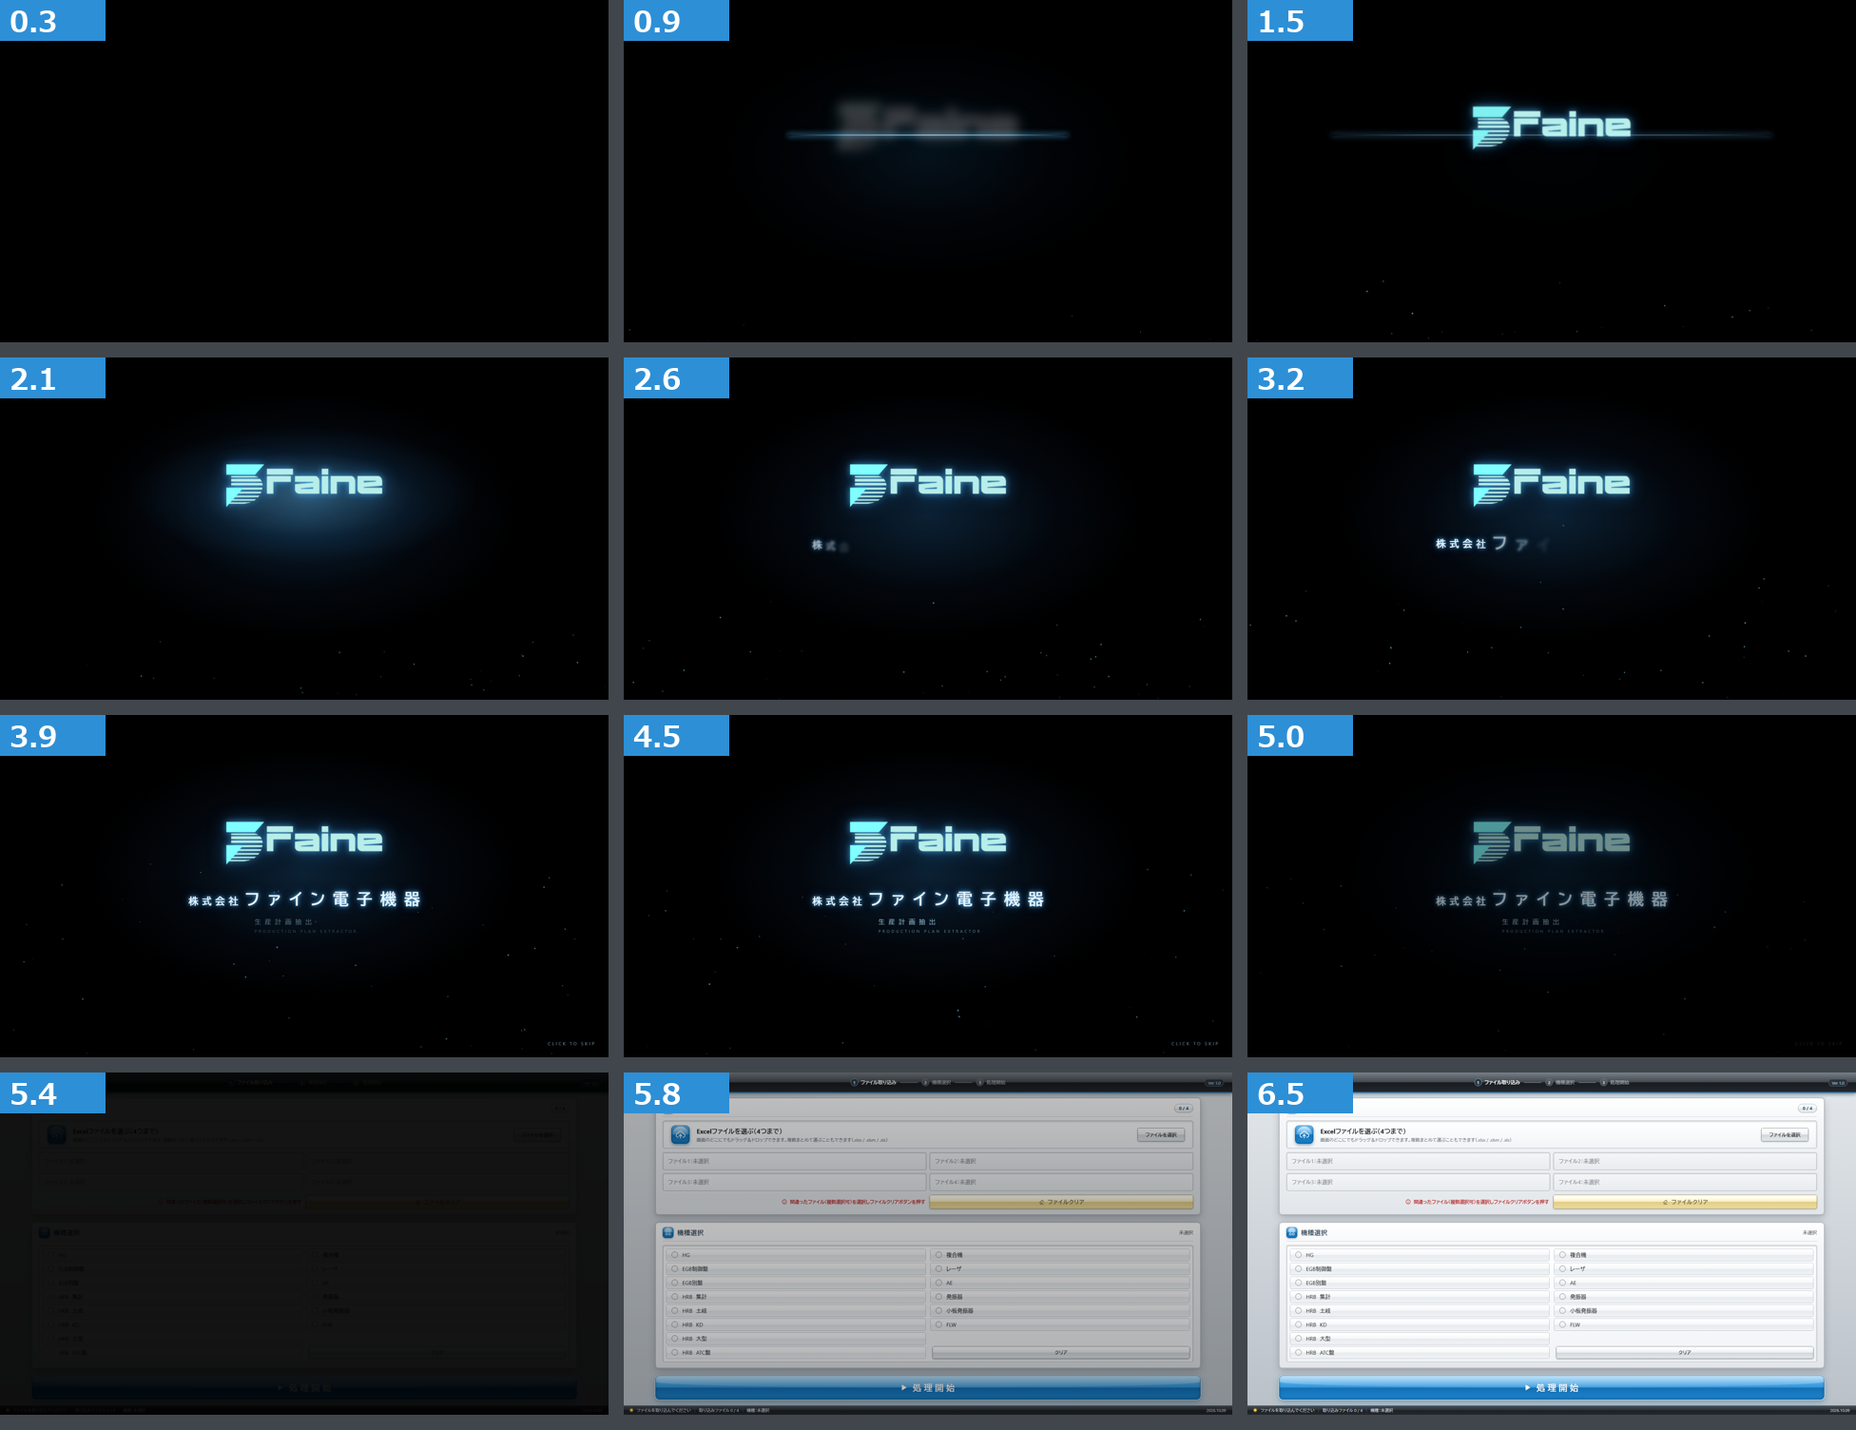
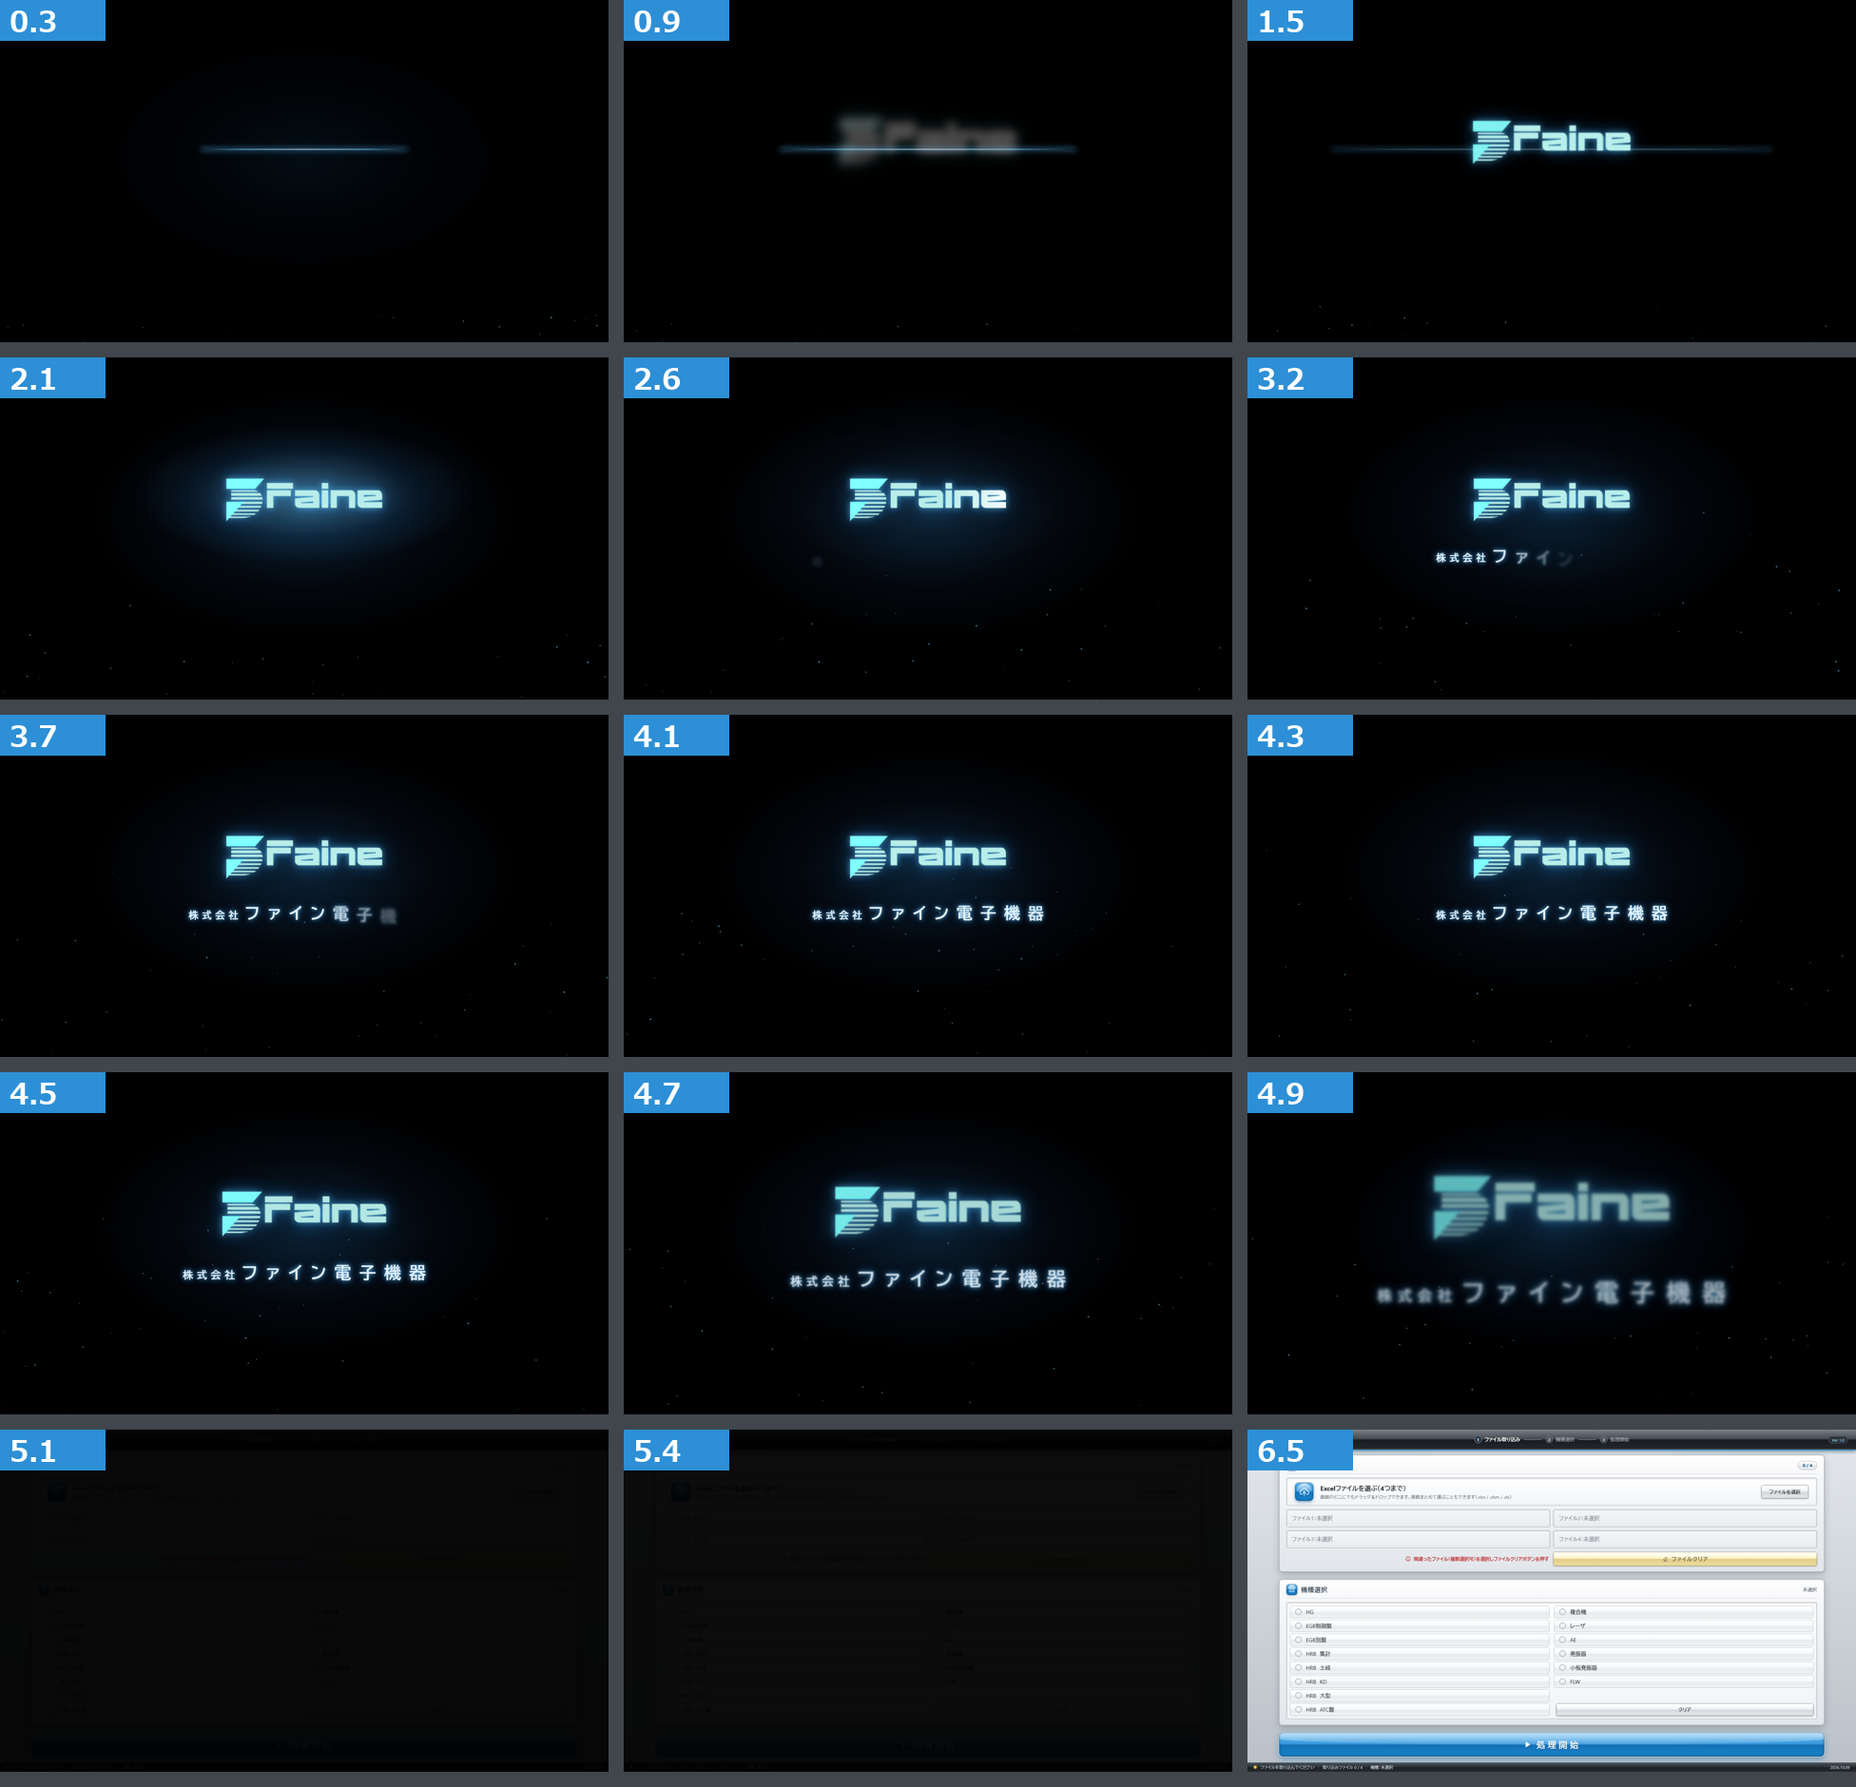
オープニングの終わり方を変更：ロゴと会社名が手前に飛び出しながら消える
- 「生産計画抽出」「CLICK TO SKIP」の表示を削除（クリックでの省略は残す）
- 4.5〜5.3秒でロゴと会社名が拡大・ぼかし・透明になり飛び出す演出を追加
- 4.9〜5.4秒でブラックアウト、6秒でアプリ画面へ

diff --git a/index.html b/index.html
@@ -198,12 +198,12 @@ main{width:1720px;margin:0 auto;padding:18px 0;display:flex;flex-direction:colum
 #result{display:none!important}
 @media (prefers-reduced-motion:reduce){*{transition:none!important}}
 
-/* ===== オープニング（起動時の6秒。最後はブラックアウトしてからアプリへ。クリックで省略）：黒い画面から Faineロゴ＋「ファイン電子機器」が光とともに浮かび上がる ===== */
+/* ===== オープニング（起動時の6秒。最後はロゴと会社名が手前に飛び出しながら消え、ブラックアウトしてからアプリへ。クリックで省略）：黒い画面から Faineロゴ＋「ファイン電子機器」が光とともに浮かび上がる ===== */
 #splash{position:absolute;inset:0;z-index:500;overflow:hidden;cursor:pointer;background:#000;color:#fff;
   animation:spOut .6s ease-in 5.4s forwards}
 #splash .sp-bg{position:absolute;inset:0;background:radial-gradient(900px 520px at 50% 46%,rgba(20,60,95,.55),rgba(5,12,22,.6) 45%,#000 75%);opacity:0;animation:spFade 1.6s ease-out .4s forwards}
 #splash .sp-pt{position:absolute;bottom:-20px;border-radius:50%;background:radial-gradient(circle,#BFE9FF 0%,rgba(90,190,255,.6) 40%,transparent 70%);opacity:0;animation:spRise linear infinite}
-#splash .sp-center{position:absolute;left:0;right:0;top:50%;transform:translateY(-58%);display:flex;flex-direction:column;align-items:center}
+#splash .sp-center{position:absolute;left:0;right:0;top:50%;transform:translateY(-58%);display:flex;flex-direction:column;align-items:center;transform-origin:50% 40%;animation:spFly .8s cubic-bezier(.55,0,.85,.35) 4.5s forwards}
 #splash .sp-beam{position:absolute;left:50%;top:92px;width:0;height:2px;transform:translateX(-50%);border-radius:2px;opacity:0;
   background:linear-gradient(90deg,transparent,#7FD3FF 20%,#FFFFFF 50%,#7FD3FF 80%,transparent);box-shadow:0 0 18px 4px rgba(90,190,255,.55);animation:spBeam 1.4s ease-out .5s forwards}
 #splash .sp-logo{position:relative;width:500px;opacity:0;filter:blur(18px) brightness(2.2);transform:scale(1.18);animation:spLogo 1.3s cubic-bezier(.2,.7,.2,1) .9s forwards}
@@ -215,19 +215,16 @@ main{width:1720px;margin:0 auto;padding:18px 0;display:flex;flex-direction:colum
 #splash .sp-name span.s{font-size:.62em;letter-spacing:.35em}
 #splash .sp-name span.s:nth-child(4){margin-right:.35em}
 #splash .sp-name span{display:inline-block;opacity:0;color:#E8F6FF;transform:translateY(14px);filter:blur(6px);text-shadow:0 0 12px rgba(110,200,255,.9),0 0 28px rgba(40,140,230,.6);animation:spChar .45s ease-out forwards}
-#splash .sp-sub{margin-top:26px;font-size:20px;letter-spacing:.6em;padding-left:.6em;color:#8FB8D0;opacity:0;animation:spFade .7s ease-out 3.9s forwards}
-#splash .sp-sub small{display:block;margin-top:8px;font-size:13px;letter-spacing:.42em;color:#5F8299;text-align:center}
-#splash .sp-skip{position:absolute;right:40px;bottom:34px;font-size:14px;letter-spacing:.35em;color:#7FA9C4;opacity:0;animation:spFade .4s ease-out 4s forwards,spBlink 1.1s ease-in-out 4.4s infinite}
 @keyframes spFade{to{opacity:1}}
+@keyframes spFly{0%{transform:translateY(-58%) scale(1);opacity:1;filter:blur(0)}100%{transform:translateY(-58%) scale(3.2);opacity:0;filter:blur(14px)}}
 @keyframes spBeam{0%{opacity:0;width:0}25%{opacity:1}70%{opacity:1;width:1300px}100%{opacity:0;width:1500px}}
 @keyframes spLogo{to{opacity:1;filter:blur(0) brightness(1);transform:none}}
 @keyframes spGlint{to{background-position:-20% 0}}
 @keyframes spFlash{30%{opacity:1}100%{opacity:0}}
 @keyframes spChar{to{opacity:1;transform:none;filter:blur(0)}}
-@keyframes spBlink{50%{opacity:.25}}
 @keyframes spRise{0%{opacity:0;transform:translateY(0)}15%{opacity:.9}85%{opacity:.6}100%{opacity:0;transform:translateY(-700px)}}
 @keyframes spOut{to{opacity:0;visibility:hidden}}
-#splash .sp-black{position:absolute;inset:0;background:#000;opacity:0;pointer-events:none;animation:spFade .8s ease-in 4.6s forwards}
+#splash .sp-black{position:absolute;inset:0;background:#000;opacity:0;pointer-events:none;animation:spFade .5s ease-in 4.9s forwards}
 #splash.skip{animation:spOut .3s ease-in forwards}
 @media (prefers-reduced-motion:reduce){#splash{animation:spOut .3s ease-in 2s forwards}#splash *{animation-duration:.01s!important;animation-delay:0s!important;animation-iteration-count:1!important}}
 </style>
@@ -316,9 +313,7 @@ main{width:1720px;margin:0 auto;padding:18px 0;display:flex;flex-direction:colum
       <div class="sp-beam"></div>
[1 lines of base64/hex data omitted]
       <div class="sp-name" aria-label="株式会社ファイン電子機器"><span class="s" style="animation-delay:2.70s">株</span><span class="s" style="animation-delay:2.80s">式</span><span class="s" style="animation-delay:2.90s">会</span><span class="s" style="animation-delay:3.00s">社</span><span style="animation-delay:3.10s">フ</span><span style="animation-delay:3.20s">ァ</span><span style="animation-delay:3.30s">イ</span><span style="animation-delay:3.40s">ン</span><span style="animation-delay:3.50s">電</span><span style="animation-delay:3.60s">子</span><span style="animation-delay:3.70s">機</span><span style="animation-delay:3.80s">器</span></div>
-      <div class="sp-sub">生産計画抽出<small>PRODUCTION PLAN EXTRACTOR</small></div>
     </div>
-    <div class="sp-skip">CLICK TO SKIP</div>
     <div class="sp-black"></div>
   </div>
 </div>

diff --git a/アマダ生産計画抽出.html b/アマダ生産計画抽出.html
@@ -199,12 +199,12 @@ main{width:1720px;margin:0 auto;padding:18px 0;display:flex;flex-direction:colum
 #result{display:none!important}
 @media (prefers-reduced-motion:reduce){*{transition:none!important}}
 
-/* ===== オープニング（起動時の6秒。最後はブラックアウトしてからアプリへ。クリックで省略）：黒い画面から Faineロゴ＋「ファイン電子機器」が光とともに浮かび上がる ===== */
+/* ===== オープニング（起動時の6秒。最後はロゴと会社名が手前に飛び出しながら消え、ブラックアウトしてからアプリへ。クリックで省略）：黒い画面から Faineロゴ＋「ファイン電子機器」が光とともに浮かび上がる ===== */
 #splash{position:absolute;inset:0;z-index:500;overflow:hidden;cursor:pointer;background:#000;color:#fff;
   animation:spOut .6s ease-in 5.4s forwards}
 #splash .sp-bg{position:absolute;inset:0;background:radial-gradient(900px 520px at 50% 46%,rgba(20,60,95,.55),rgba(5,12,22,.6) 45%,#000 75%);opacity:0;animation:spFade 1.6s ease-out .4s forwards}
 #splash .sp-pt{position:absolute;bottom:-20px;border-radius:50%;background:radial-gradient(circle,#BFE9FF 0%,rgba(90,190,255,.6) 40%,transparent 70%);opacity:0;animation:spRise linear infinite}
-#splash .sp-center{position:absolute;left:0;right:0;top:50%;transform:translateY(-58%);display:flex;flex-direction:column;align-items:center}
+#splash .sp-center{position:absolute;left:0;right:0;top:50%;transform:translateY(-58%);display:flex;flex-direction:column;align-items:center;transform-origin:50% 40%;animation:spFly .8s cubic-bezier(.55,0,.85,.35) 4.5s forwards}
 #splash .sp-beam{position:absolute;left:50%;top:92px;width:0;height:2px;transform:translateX(-50%);border-radius:2px;opacity:0;
   background:linear-gradient(90deg,transparent,#7FD3FF 20%,#FFFFFF 50%,#7FD3FF 80%,transparent);box-shadow:0 0 18px 4px rgba(90,190,255,.55);animation:spBeam 1.4s ease-out .5s forwards}
 #splash .sp-logo{position:relative;width:500px;opacity:0;filter:blur(18px) brightness(2.2);transform:scale(1.18);animation:spLogo 1.3s cubic-bezier(.2,.7,.2,1) .9s forwards}
@@ -216,19 +216,16 @@ main{width:1720px;margin:0 auto;padding:18px 0;display:flex;flex-direction:colum
 #splash .sp-name span.s{font-size:.62em;letter-spacing:.35em}
 #splash .sp-name span.s:nth-child(4){margin-right:.35em}
 #splash .sp-name span{display:inline-block;opacity:0;color:#E8F6FF;transform:translateY(14px);filter:blur(6px);text-shadow:0 0 12px rgba(110,200,255,.9),0 0 28px rgba(40,140,230,.6);animation:spChar .45s ease-out forwards}
-#splash .sp-sub{margin-top:26px;font-size:20px;letter-spacing:.6em;padding-left:.6em;color:#8FB8D0;opacity:0;animation:spFade .7s ease-out 3.9s forwards}
-#splash .sp-sub small{display:block;margin-top:8px;font-size:13px;letter-spacing:.42em;color:#5F8299;text-align:center}
-#splash .sp-skip{position:absolute;right:40px;bottom:34px;font-size:14px;letter-spacing:.35em;color:#7FA9C4;opacity:0;animation:spFade .4s ease-out 4s forwards,spBlink 1.1s ease-in-out 4.4s infinite}
 @keyframes spFade{to{opacity:1}}
+@keyframes spFly{0%{transform:translateY(-58%) scale(1);opacity:1;filter:blur(0)}100%{transform:translateY(-58%) scale(3.2);opacity:0;filter:blur(14px)}}
 @keyframes spBeam{0%{opacity:0;width:0}25%{opacity:1}70%{opacity:1;width:1300px}100%{opacity:0;width:1500px}}
 @keyframes spLogo{to{opacity:1;filter:blur(0) brightness(1);transform:none}}
 @keyframes spGlint{to{background-position:-20% 0}}
 @keyframes spFlash{30%{opacity:1}100%{opacity:0}}
 @keyframes spChar{to{opacity:1;transform:none;filter:blur(0)}}
-@keyframes spBlink{50%{opacity:.25}}
 @keyframes spRise{0%{opacity:0;transform:translateY(0)}15%{opacity:.9}85%{opacity:.6}100%{opacity:0;transform:translateY(-700px)}}
 @keyframes spOut{to{opacity:0;visibility:hidden}}
-#splash .sp-black{position:absolute;inset:0;background:#000;opacity:0;pointer-events:none;animation:spFade .8s ease-in 4.6s forwards}
+#splash .sp-black{position:absolute;inset:0;background:#000;opacity:0;pointer-events:none;animation:spFade .5s ease-in 4.9s forwards}
 #splash.skip{animation:spOut .3s ease-in forwards}
 @media (prefers-reduced-motion:reduce){#splash{animation:spOut .3s ease-in 2s forwards}#splash *{animation-duration:.01s!important;animation-delay:0s!important;animation-iteration-count:1!important}}
 </style>
@@ -317,9 +314,7 @@ main{width:1720px;margin:0 auto;padding:18px 0;display:flex;flex-direction:colum
       <div class="sp-beam"></div>
[1 lines of base64/hex data omitted]
       <div class="sp-name" aria-label="株式会社ファイン電子機器"><span class="s" style="animation-delay:2.70s">株</span><span class="s" style="animation-delay:2.80s">式</span><span class="s" style="animation-delay:2.90s">会</span><span class="s" style="animation-delay:3.00s">社</span><span style="animation-delay:3.10s">フ</span><span style="animation-delay:3.20s">ァ</span><span style="animation-delay:3.30s">イ</span><span style="animation-delay:3.40s">ン</span><span style="animation-delay:3.50s">電</span><span style="animation-delay:3.60s">子</span><span style="animation-delay:3.70s">機</span><span style="animation-delay:3.80s">器</span></div>
-      <div class="sp-sub">生産計画抽出<small>PRODUCTION PLAN EXTRACTOR</small></div>
     </div>
-    <div class="sp-skip">CLICK TO SKIP</div>
     <div class="sp-black"></div>
   </div>
 </div>

diff --git a/CLAUDE.md b/CLAUDE.md
@@ -25,7 +25,7 @@
 - エラー表示（C案の見た目を維持）：**画面中央のダイアログ**で表示。赤枠・薄赤背景、×アイコン付き見出し、項目ごとに白い小枠で「原因（濃い赤太字）」と「→ 対処」。右下に赤い光沢の「OK」ボタン（閉じて元画面へ戻る）。
   - ファイル未取り込み／機種未選択／処理未設定の機種／定義アンマッチ／ファイル重複／保存データなし／取り込み・保存の失敗をこの形で表示。
 - 保存ダイアログ・保存完了表示（緑の光沢）も同じデザインに統一。
-- オープニング（2026-10-09、ゲームソフトの起動画面風。**全体6秒・最後はブラックアウト**）：#splash（.app の最前面）。0〜1.9秒 黒い画面に光の粒、青白い光の線が走る／0.9〜2.2秒 光の中からロゴ（FDlogo4_web.png、data URI、明るさ＋青い発光）がくっきり浮かぶ／2.2〜3.0秒 一瞬光り、ロゴの形に沿って光が走る／2.7〜4.3秒「株式会社ファイン電子機器」（「株式会社」はひと回り小さく。ユーザー指定の正式表記）が0.1秒おきに1文字ずつ発光して出る／3.9〜4.6秒「生産計画抽出 / PRODUCTION PLAN EXTRACTOR」と右下「CLICK TO SKIP」点滅、全体を見せる／4.6〜5.4秒 黒い幕（.sp-black）でブラックアウト／5.4〜6.0秒 黒からアプリ画面へ。クリックで省略。animationend で取り除き、念のため6.1秒で必ず取り除く。英語の社名は正式表記が不明なので出さない。流れの画像：デザイン案\オープニング_流れ.png（12コマ）、タイトル画面：デザイン案\オープニング_タイトル画面.png。ロゴは高解像度の FDlogo4.png（1200×800）を、黒背景で白いふちが光らないよう加工・切り出し・800×227に縮小した FDlogo4_web.png（元の FDlogo4.png はそのまま、旧ロゴ FDlogo.png は未使用）。
+- オープニング（2026-10-09、ゲームソフトの起動画面風。**全体6秒・最後はロゴと会社名が手前に飛び出しながら消え、ブラックアウトしてからアプリへ**）：#splash（.app の最前面）。0〜1.9秒 黒い画面に光の粒、青白い光の線が走る／0.9〜2.2秒 光の中からロゴ（FDlogo4_web.png、data URI、明るさ＋青い発光）がくっきり浮かぶ／2.2〜3.0秒 一瞬光り、ロゴの形に沿って光が走る／2.7〜4.3秒「株式会社ファイン電子機器」（「株式会社」はひと回り小さく。ユーザー指定の正式表記）が0.1秒おきに1文字ずつ発光して出る／4.3〜4.5秒 そろった状態を見せる／4.5〜5.3秒 ロゴと会社名（.sp-center）が手前に飛び出す（spFly：3.2倍に拡大・ぼかし・透明へ）／4.9〜5.4秒 黒い幕（.sp-black）でブラックアウト／5.4〜6.0秒 黒からアプリ画面へ。**「生産計画抽出」「CLICK TO SKIP」の表示は入れない**（ユーザー指定）。表示はしないがクリックで省略はできる。animationend で取り除き、念のため6.1秒で必ず取り除く。英語の社名は正式表記が不明なので出さない。流れの画像：デザイン案\オープニング_流れ.png（15コマ）、タイトル画面：デザイン案\オープニング_タイトル画面.png。ロゴは高解像度の FDlogo4.png（1200×800）を、黒背景で白いふちが光らないよう加工・切り出し・800×227に縮小した FDlogo4_web.png（元の FDlogo4.png はそのまま、旧ロゴ FDlogo.png は未使用）。
 - fitApp() はオープニングがずれないよう、xlsx ライブラリより前の小さな <script> で定義・実行している。
 - 旧デザイン（花柄・ノートPC 1366×650 前提）の index.html は デザイン案\旧デザイン_index.html に保存（機能はデザイン変更直前と同じ）。
 - ファイル重複（全機種共通、2026-10-09）：同じタイトル（ファイル名。拡張子・大文字小文字・全角半角の違いは無視）のファイルが2つ以上あると「ファイルが重複しています」エラー。取り込み時と処理開始時に表示し、重複したファイル枠を赤枠にして処理しない。同名ファイルを黙って入れ替える動きは廃止（両方を枠に並べる）。どちらかを選択してファイルクリアすれば処理できる。エラーは従来どおり「OK」で閉じて元画面へ戻る。
